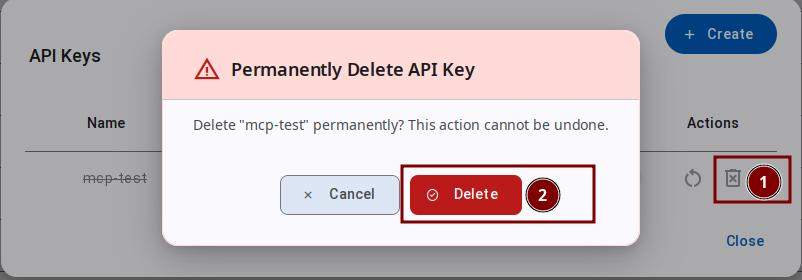
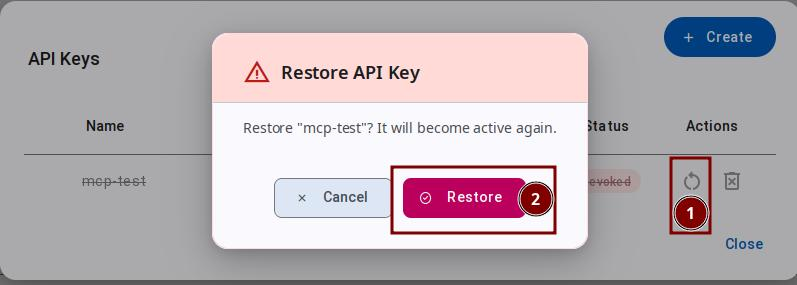
docs: sync CN/EN MCP docs and rename API Key screenshots
- Sync CN/EN auth bullet point format and variable name ($API_KEY)
- Remove Token Expiry sections (CN/EN main body + FAQ)
- Rename images to match text descriptions:
  revoke-confirm → revoked, restore-delete → restore-confirm, restore-confirm → delete-confirm

diff --git a/docs-3.1-cn/ai-tools/use-mcp-service.md b/docs-3.1-cn/ai-tools/use-mcp-service.md
@@ -34,19 +34,19 @@ MCP 服务支持两种凭证方式：JWT Token（24小时有效期）或 API Key
 
 ### 创建 API Key（推荐）
 
-如下图所示，登录服务器后，点击右侧三个点按钮，然后选择 **API Key** 选项。
+- 如下图所示，登录服务器后，点击右侧三个点按钮，然后选择 **API Key** 选项。
 
 ![API Key 菜单选项](/img/web-ui/zh/mcp-api-key-menu-option.jpeg)
 
-在弹出的 API Keys 对话框中，点击 **Create your first API key** 按钮。
+- 在弹出的 API Keys 对话框中，点击 **Create your first API key** 按钮。
 
 ![创建第一个 API Key](/img/web-ui/zh/mcp-api-key-create-first.jpeg)
 
-为即将创建的 API Key 输入一个名称，然后点击 **Create** 按钮。
+- 为即将创建的 API Key 输入一个名称，然后点击 **Create** 按钮。
 
 ![输入 API Key 名称](/img/web-ui/zh/mcp-api-key-input-name.jpeg)
 
-后端创建完成后，会显示 API Key Created 对话框，**复制并保存此 Key**。
+- 后端创建完成后，会显示 API Key Created 对话框，**复制并保存此 Key**。
 
 ![API Key 创建成功](/img/web-ui/zh/mcp-api-key-created-dialog.jpeg)
 
@@ -54,27 +54,27 @@ MCP 服务支持两种凭证方式：JWT Token（24小时有效期）或 API Key
 此 API Key **只显示一次**，复制保存后，将不会再次显示。请立即妥善保存。
 :::
 
-创建完成后，列表中将显示该 Key。
+- 创建完成后，列表中将显示该 Key。
 
 ![API Key 列表](/img/web-ui/zh/mcp-api-key-list.jpeg)
 
-在 Actions 中，可以点击 Revoke 按钮吊销某个 Key。
+- 在 Actions 中，可以点击 Revoke 按钮吊销某个 Key。
 
 ![吊销 API Key](/img/web-ui/zh/mcp-api-key-revoke.jpeg)
 
-吊销后，可以点击 **Restore** 恢复或 **Delete** 永久删除。
+- 吊销后，可以点击 **Restore** 恢复或 **Delete** 永久删除。
 
-![吊销确认](/img/web-ui/zh/mcp-api-key-revoke-confirm.jpeg)
+![吊销后状态](/img/web-ui/zh/mcp-api-key-revoked.jpeg)
 
-点击Restore恢复
-![恢复或删除 API Key](/img/web-ui/zh/mcp-api-key-restore-delete.jpeg)
+- 点击Restore恢复
 
-点击Delete永久删除
-![恢复确认](/img/web-ui/zh/mcp-api-key-restore-confirm.jpeg)
+![恢复确认对话框](/img/web-ui/zh/mcp-api-key-restore-confirm.jpeg)
 
-### JWT Token
+- 点击Delete永久删除
 
-如果需要使用 JWT Token（24小时有效期），可参考用户信息中的 Access Token。
+![删除确认对话框](/img/web-ui/zh/mcp-api-key-delete-confirm.jpeg)
+
+
 
 ## 快速开始
 
@@ -84,14 +84,14 @@ MCP 服务支持两种凭证方式：JWT Token（24小时有效期）或 API Key
 # 添加 MCP 服务器
 claude mcp add --transport sse My_GNS3_Server \
   http://localhost:3080/v3/mcp/transport/sse \
-  -H "Authorization: Bearer $API-Key"
+  -H "Authorization: Bearer $API_KEY"
 ```
 
 参数说明：
 - `--transport sse` — 使用 SSE（Server-Sent Events）传输协议，MCP 的标准传输方式，支持远程连接
 - `My_GNS3_Server` — 自定义的 MCP 服务器名称，可任意命名，用于在 Claude Code 中标识该服务器
 - `http://localhost:3080/v3/mcp/transport/sse` — GNS3 服务端的 MCP SSE 端点地址，`localhost` 为 GNS3 服务端地址，`3080` 为默认端口
-- `-H "Authorization: Bearer $API-Key"` — 携带 API Key 的认证请求头，`$API-Key` 替换为上一步获取的 API Key 值
+- `-H "Authorization: Bearer $API_KEY"` — 携带 API Key 的认证请求头，`$API_KEY` 替换为上一步获取的 API Key 值
 
 添加完成后，在 Claude Code 中即可通过自然语言管理 GNS3，例如：
 - "列出所有 GNS3 项目"
@@ -365,14 +365,6 @@ mcp_allowed_origins = http://127.0.0.1:*,http://localhost:*,http://192.168.1.3:*
 - **MCP 服务**：提供标准化的 MCP 协议接口，允许外部 AI 客户端（如 Claude Code、Claude Desktop）以统一方式调用 GNS3 功能
 
 两者可以配合使用：MCP 服务于工具调用场景，AI 助手服务于 GUI 内交互式使用场景。
-
-### 如何配置 Token 有效期？
-
-在 `gns3_server.conf` 中设置：
-
-```ini
-jwt_access_token_expire_minutes = 1440  ; 默认 24 小时
-```
 
 ### 是否支持远程连接？
 

diff --git a/docs-3.1-en/ai-tools/use-mcp-service.md b/docs-3.1-en/ai-tools/use-mcp-service.md
@@ -34,19 +34,19 @@ The MCP service supports two credential types: JWT Token (24-hour expiry) or API
 
 ### Create an API Key (Recommended)
 
-After logging into the server, click the three dots button on the right side, then select the **API Key** option.
+- After logging into the server, click the three dots button on the right side, then select the **API Key** option.
 
 ![API Key menu option](/img/web-ui/zh/mcp-api-key-menu-option.jpeg)
 
-In the API Keys dialog, click **Create your first API key**.
+- In the API Keys dialog, click **Create your first API key**.
 
 ![Create first API Key](/img/web-ui/zh/mcp-api-key-create-first.jpeg)
 
-Enter a name for the API Key and click **Create**.
+- Enter a name for the API Key and click **Create**.
 
 ![Enter API Key name](/img/web-ui/zh/mcp-api-key-input-name.jpeg)
 
-Once created, the dialog displays the key. **Copy and save it now.**
+- Once created, the dialog displays the key. **Copy and save it now.**
 
 ![API Key created](/img/web-ui/zh/mcp-api-key-created-dialog.jpeg)
 
@@ -54,37 +54,30 @@ Once created, the dialog displays the key. **Copy and save it now.**
 This API Key is **only shown once**. After closing the dialog, it cannot be displayed again. Save it immediately.
 :::
 
-The key appears in the list.
+- The key appears in the list.
 
 ![API Key list](/img/web-ui/zh/mcp-api-key-list.jpeg)
 
-In the Actions column, click Revoke to revoke a key.
+- In the Actions column, click Revoke to revoke a key.
 
 ![Revoke API Key](/img/web-ui/zh/mcp-api-key-revoke.jpeg)
 
-Confirm the revocation.
+- After revocation, you can click **Restore** or **Delete**.
 
-![Revoke confirmation](/img/web-ui/zh/mcp-api-key-revoke-confirm.jpeg)
+![Revoked state](/img/web-ui/zh/mcp-api-key-revoked.jpeg)
 
-After revocation, you can click **Restore** or **Delete**.
+- Click **Restore** to restore the key
 
-![Restore or delete API Key](/img/web-ui/zh/mcp-api-key-restore-delete.jpeg)
+![Restore confirmation dialog](/img/web-ui/zh/mcp-api-key-restore-confirm.jpeg)
 
-After confirming restore, the key becomes active again.
+- Click **Delete** to permanently delete
 
-![Restore confirmation](/img/web-ui/zh/mcp-api-key-restore-confirm.jpeg)
+![Delete confirmation dialog](/img/web-ui/zh/mcp-api-key-delete-confirm.jpeg)
 
 ### JWT Token
 
 If you prefer to use a JWT Token (24-hour expiry), you can obtain it from the User Info dialog.
 
-### Token Expiry
-
-The default JWT token lifetime is **1440 minutes (24 hours)**. This can be configured in `gns3_server.conf`:
-
-```ini
-jwt_access_token_expire_minutes = 1440  ; 24 hours
-```
 
 ## Quick Start
 
@@ -375,14 +368,6 @@ With the default configuration, all hosts can connect — suitable for most scen
 - **MCP Service**: Provides a standardized MCP protocol interface for external AI clients (like Claude Code, Claude Desktop) to interact with GNS3 functionality in a unified way
 
 They can be used together: MCP is for tool-calling scenarios, while the AI Assistant is for in-GUI interactive usage.
-
-### How to configure token expiry?
-
-Set in `gns3_server.conf`:
-
-```ini
-jwt_access_token_expire_minutes = 1440  ; default 24 hours
-```
 
 ### Is remote connection supported?
 